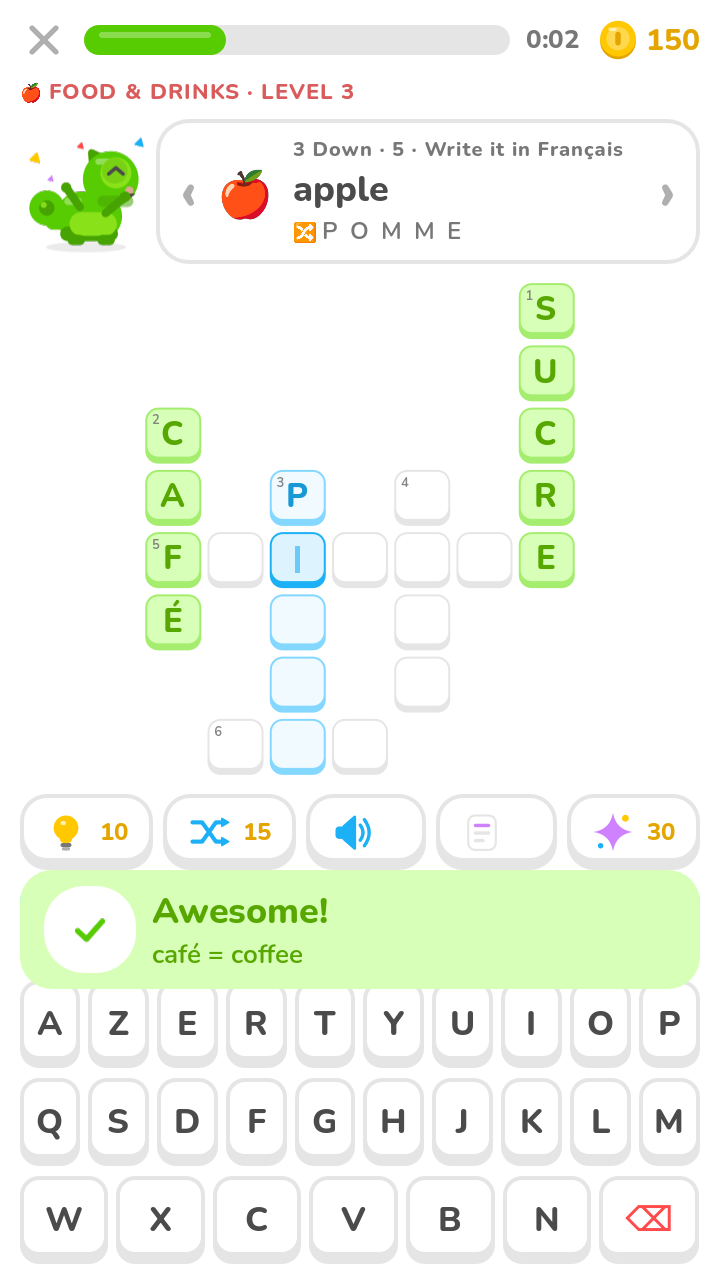
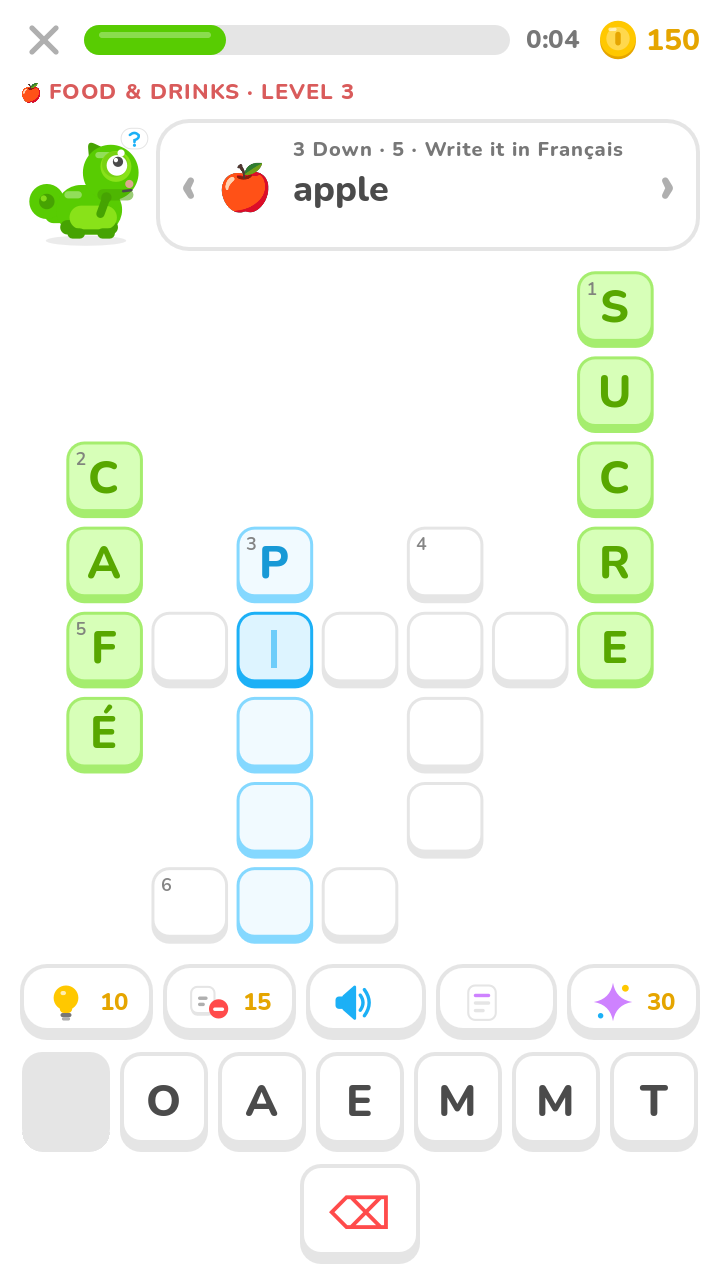
Replace the full keyboard with a per-word letter bank
Only the letters the current word needs are offered, shuffled, plus 2-3
decoys drawn from the grid's other answers. Used tiles leave an empty
slot and return on erase; tiles carry exact accented letters. The
shuffle hint becomes 'remove extra letters'. Adds bank tests, a trim
icon, and bumps the version to 1.2.0 (code 3).

Claude-Session: https://claude.ai/code/session_01Hv39AE1tBLePdRq7yU7D3f

diff --git a/Lexigo/tools/art/make_art.py b/Lexigo/tools/art/make_art.py
@@ -268,6 +268,9 @@ ICONS = {
                  + rect(24, 16, 8, 6, 3, WHITE, 'opacity="0.7"')),
     "shuffle": icon(line([(8, 18), (22, 18), (42, 46), (54, 46)], 6, SKY) + line([(8, 46), (22, 46), (42, 18), (54, 18)], 6, SKY)
                     + tri(54, 46, 9, SKY, rot=90) + tri(54, 18, 9, SKY, rot=90)),
+    "trim": icon(rect(6, 14, 34, 38, 9, CLOUD) + rect(6, 10, 34, 38, 9, WHITE, f'stroke="{CLOUD}" stroke-width="3"')
+                 + rect(16, 24, 14, 5, 2.5, MIST) + rect(16, 33, 10, 5, 2.5, MIST)
+                 + circle(46, 42, 14, BERRY) + rect(38, 40, 16, 5, 2.5, WHITE)),
     "sparkle": icon(path("M32 4 Q36 28 60 32 Q36 36 32 60 Q28 36 4 32 Q28 28 32 4 Z", GRAPE) + circle(50, 12, 5, SUN) + circle(14, 52, 4, SKY)),
     "note": icon(rect(12, 8, 40, 50, 10, WHITE, f'stroke="{CLOUD}" stroke-width="3"') + rect(20, 20, 24, 5, 2.5, GRAPE)
                  + rect(20, 31, 24, 5, 2.5, CLOUD) + rect(20, 42, 16, 5, 2.5, CLOUD)),

diff --git a/Lexigo/README.md b/Lexigo/README.md
@@ -18,9 +18,10 @@ remember them for good.
 | 🧩 **Procedural crosswords** | Every grid is generated from the level's words: compact, fully interlocked, at most 13×13, and the same each time you replay a level |
 | 🧠 **Spaced repetition** | Leitner boxes (0.5 → 35 days). A clean solve moves a word up a box; a solve with hints moves it down; a revealed word goes back to box 1. The **Review** grid is built from words that are due |
 | 📅 **Daily challenge** | The same grid for everyone each day, drawn from all your unlocked worlds. Bonus coins, plus a 🔥 streak |
-| 💡 **Hints** | Reveal a letter (10 🪙), show the word's letters shuffled (15 🪙), reveal the word (30 🪙), listen to the word, see an example sentence |
+| 🔤 **Letter bank** | No full keyboard: only the tiles the current word needs, shuffled, plus 2–3 decoys from the grid's other answers. Used tiles leave an empty slot and come back when you erase |
+| 💡 **Hints** | Reveal a letter (10 🪙), remove the decoy letters (15 🪙), reveal the word (30 🪙), listen to the word, see an example sentence |
 | 🔊 **Pronunciation** | A native speaker's recording from Wikimedia Commons / Lingua Libre when online, otherwise the device's own text-to-speech |
-| ✍ **Accent-friendly** | `E` is accepted for `É` unless *strict accents* is on; the correct spelling is shown once the word is solved. The keyboard has an accent row and AZERTY/QWERTZ layouts |
+| ✍ **Accents** | Bank tiles carry the exact accented letter (É, Ñ, Ü…). With a physical keyboard, `E` is accepted for `É` unless *strict accents* is on |
 | ✨ **Polish** | Lexi reacts to every answer; slide-up feedback strips; letter tiles that bounce and glow; confetti; stars that land one by one; generated sound effects; vibration |
 | 📚 **Word list** | Every word you've met, with its memory strength and pronunciation |
 | 🌐 **Works offline** | The vocabulary is bundled with the game. Online features are optional extras and fall back silently |
@@ -37,7 +38,7 @@ graphic. Tokens, components and the research behind them are in
 
 ## Research summary: what makes this kind of game work
 
-* **Recall beats recognition.** Typing the answer, as a crossword makes you do, builds the active recall you need to speak. Tapping one answer out of several choices doesn't. Lexigo therefore uses a real keyboard rather than a letter wheel.
+* **Recall beats recognition.** Building the answer letter by letter, as a crossword makes you do, builds more active recall than tapping one answer out of several choices. Lexigo's letter bank keeps input fast on a phone, and its decoy letters keep you spelling rather than just unscrambling.
 * **Spaced repetition decides what you see.** The best vocabulary-crossword apps (Cranki, Vocabulary Builder with SM-2) let the review schedule choose which words appear, so Lexigo has a dedicated review grid and recap words in each level.
 * **Sound.** crosswort plays a word's pronunciation from its clue, so you learn how it sounds as well as how it's spelled. Lexigo says each word aloud when you solve it, and has a free 🔊 hint.
 * **Words in context.** Showing an example sentence with the word blanked out ("Je mange une ＿＿＿") gives a harder, more meaningful review. That is the 📝 hint, using Tatoeba.

diff --git a/Lexigo/docs/DESIGN.md b/Lexigo/docs/DESIGN.md
@@ -61,7 +61,9 @@ level nodes and its badge.
 * **Crossword tile.** White with a `CLOUD` border and lip. Active word
   `#F1FAFF`/`#84D8FF`, cursor `SKY_PALE`/`SKY`, solved `LEAF_PALE`/`#A5ED6E` with
   `LEAF_LIP` letters, wrong flash `BERRY_PALE`/`BERRY`, celebration shimmer `SUN`.
-* **Keyboard key.** A neutral button, radius 18. The accent row is `SKY_PALE`.
+* **Letter bank tile.** An 88×100 neutral button, radius 20, Nunito 44. Only
+  the current word's letters plus 2–3 decoys. A used tile becomes an empty
+  `CLOUD` slot; ⌫ sits at the end in `BERRY`. Tiles pop in, staggered, when the word changes.
 * **Progress bar.** `CLOUD` track, `LEAF` fill, with a white 30% highlight stripe.
 * **Level node.** A 116px circle with a 12px lip, in the world colour (`CLOUD`
   when locked). It shows a star when done, a crown on the boss level, and a
